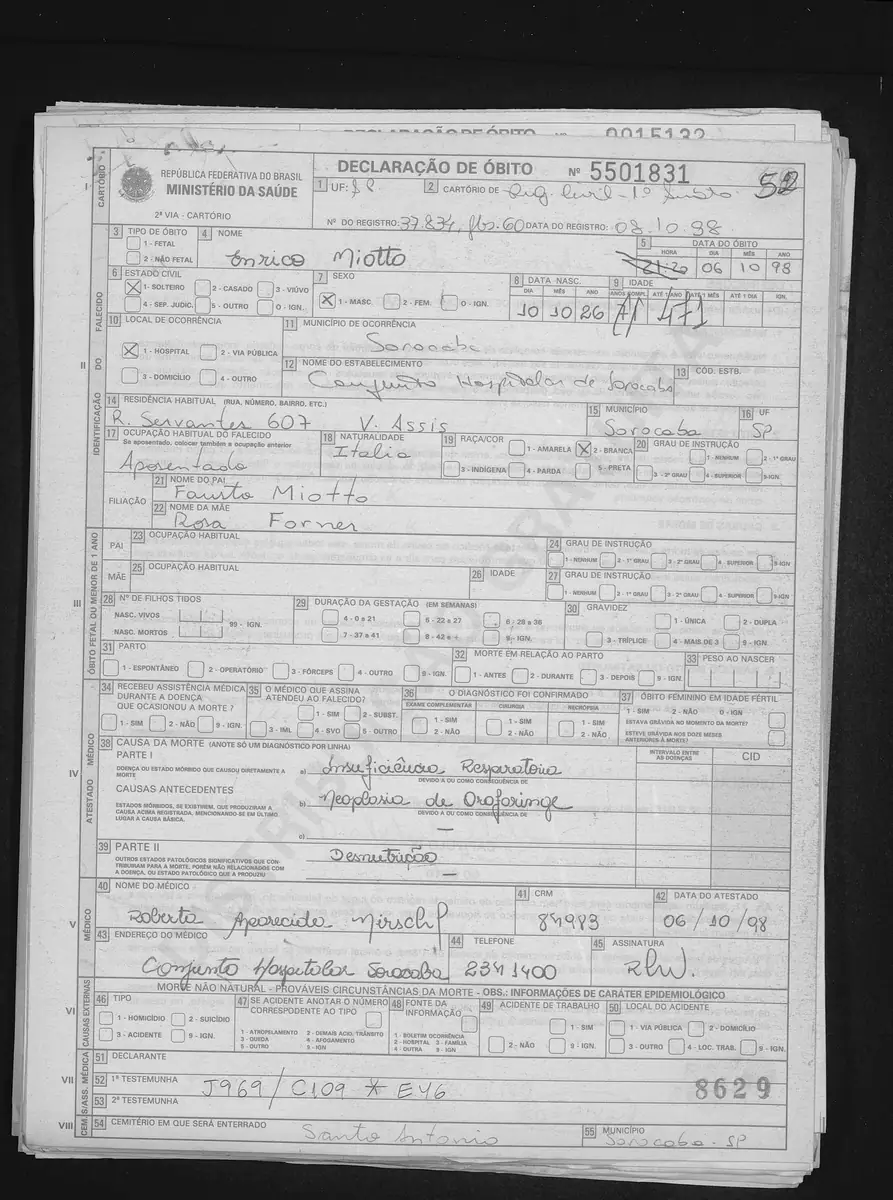
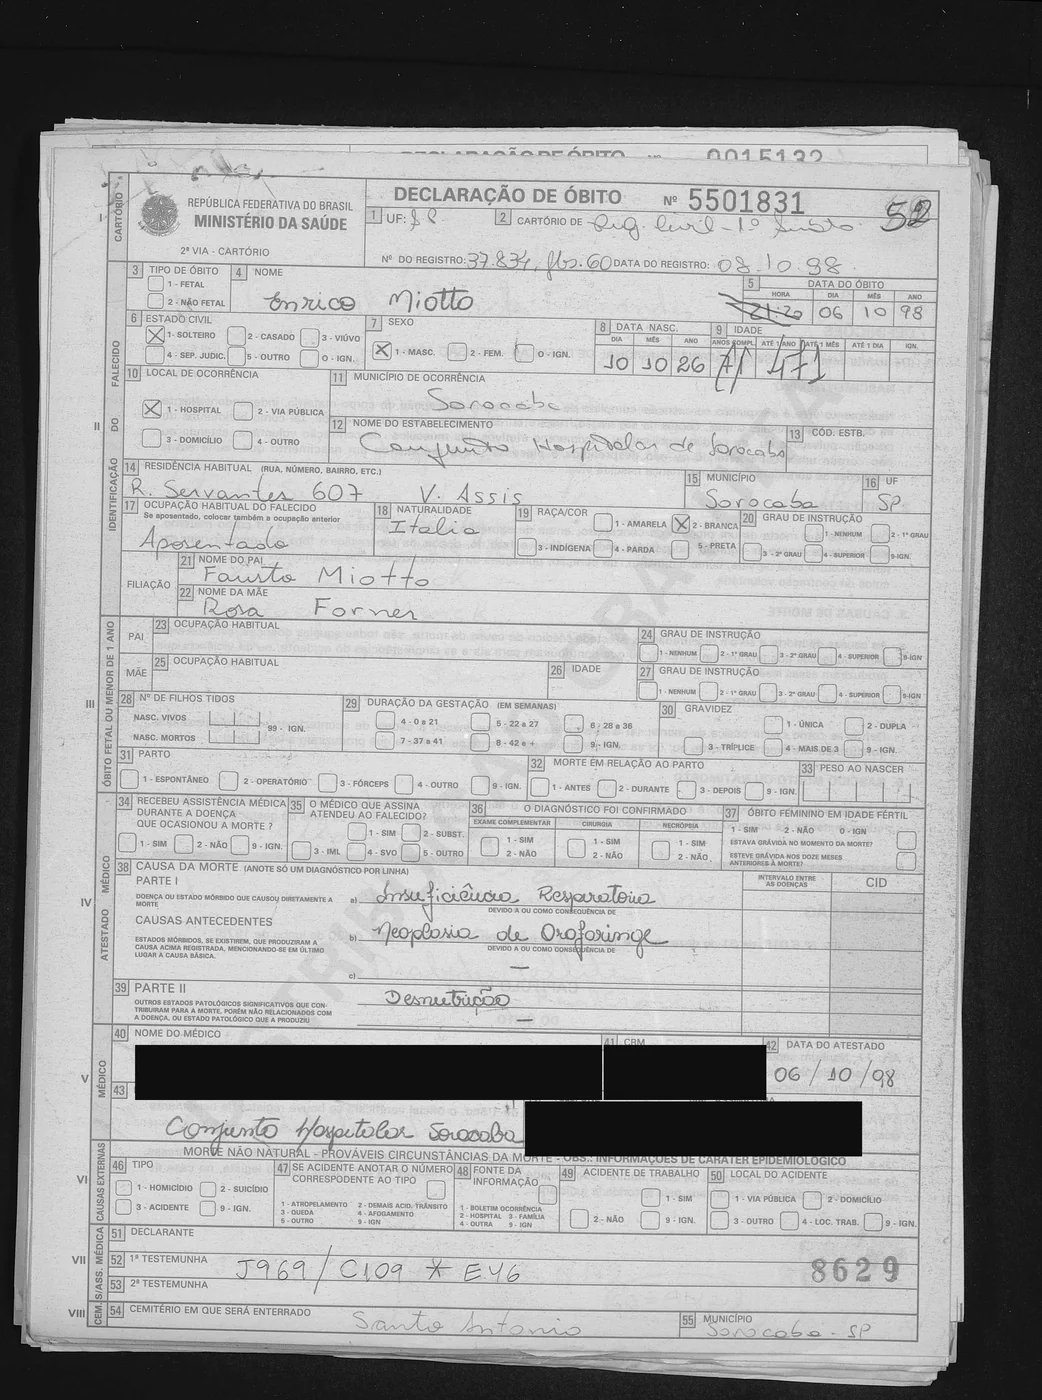
Tarja o médico na Declaração de Óbito
O autor perguntou se publicar documento de pessoa falecida pode servir
para alguém fazer algo errado. Serve, mas não pelo motivo óbvio: RG dos
anos 40 não abre nada hoje. Os riscos reais são cidadania por descendência
fabricada, perguntas de segurança dos vivos, terceiros vivos dentro dos
documentos, e fotos de vivos — inclusive de uma criança.

O único que dava para resolver sem custo nenhum ao livro foi o terceiro:
o médico que assinou o óbito de Enrico é a única pessoa daquele papel que
não é da família e não escolheu estar aqui. Nome, CRM, telefone e
assinatura tarjados; o hospital e a data continuam legíveis porque já
estão no texto.

A legenda declara a tarja. Editar documento em não-ficção sem dizer seria
pior do que não editar. Original intacto no Drive, versão tarjada em
documentos/.

O resto — números de documento, endereços, consentimento dos vivos e a
decisão sobre a foto do menor — fica anotado em docs/ para a passada
anterior ao site público de 2027 e a qualquer circulação do manuscrito.

Claude-Session: https://claude.ai/code/session_01TKTsHq9aS55tRuPuXv9cEo

Changed region(s): [[0.1209, 0.74, 0.8466, 0.8325]]

diff --git a/livro/build_livro.py b/livro/build_livro.py
@@ -5239,7 +5239,7 @@ IMG_BY_CAP = {
       ('rino','<strong>Rino Dei Agnoli</strong>, nascido em 26 de janeiro de 1923. Tinha quatro anos. Fotografia de documento, 22 de novembro de 1979.')],
  26: [('enrico','Enrico Miotto, 1926 a 1998. Tinha um ano e quinze dias na noite do naufrágio.'),
       ('enrico_registro_de_estrangeiro','Registro de Estrangeiros de Enrico Miotto, 29 de dezembro de 1949. Data de nascimento: 10.10.1926.'),
-      ('certidao_de_obito','Declaração de Óbito nº 5501831. Sorocaba, 6 de outubro de 1998. Aposentado, solteiro, natural da Itália, filho de Fausto Miotto e Rosa Forner. Sepultado no Cemitério Santo Antônio.')],
+      ('certidao_de_obito','Declaração de Óbito nº 5501831. Sorocaba, 6 de outubro de 1998. Aposentado, solteiro, natural da Itália, filho de Fausto Miotto e Rosa Forner. Sepultado no Cemitério Santo Antônio. <em>O nome, o registro profissional, o telefone e a assinatura do médico que atestou o óbito foram tarjados nesta reprodução: ele é a única pessoa deste documento que não pertence à família e não escolheu estar neste livro.</em>')],
  27: [('mafalda_miotto_forner','Mafalda Miotto Terra, nascida em 1937, dez anos depois do naufrágio, com o nome do navio.'),
       ('mafalda_e_filhos','Mafalda e os filhos: Dionísio, Edna, Mafalda, Inês, Kênia, Marta e Siri. Falta o João.'),
       ('mafalda_e_bisnetos','Mafalda e os bisnetos.')],

diff --git a/docs/02-pesquisa-documental.md b/docs/02-pesquisa-documental.md
@@ -1778,3 +1778,36 @@ legenda no livro declara isso. **Pendencia de credito, como o panfleto do cap. 5
   **filho de Miotto Asia**, irma de Fausto -> caderno.
   Nota: o sobrenome **Pandolfo** e o mesmo da bisavo Santa Pandolfo. Outro cruzamento entre
   as familias da regiao, a investigar.
+
+---
+
+## 24. Dados pessoais nas imagens — decisão de 08.09.2026
+
+O autor levantou a questão: publicar documento de pessoa falecida pode servir para alguém
+fazer algo errado?
+
+**Avaliação.** O risco baixo é o óbvio (números de RG dos anos 40 e 60 não abrem nada hoje, e
+boa parte do acervo já é público — Arquivo Nacional e Museu da Imigração). Os riscos reais são
+outros quatro:
+
+1. **Cidadania italiana por descendência.** O livro publica o dossiê pronto: comune, número de
+   ato, hora de nascimento, filiação de quatro gerações e as imagens. É material de uso direto
+   para quem fabrica vínculo genealógico.
+2. **Perguntas de segurança dos vivos.** Nome de solteira da mãe, cidade e data de nascimento
+   dos mortos servem para responder por **Mafalda, Marta e o autor**, que estão vivos.
+3. **Terceiros vivos dentro dos documentos.** O médico que assinou o óbito de Enrico.
+4. **Fotos de vivos**, inclusive **um menor** (João Luca).
+
+**Feito agora:** tarjados o **nome, o CRM, o telefone e a assinatura do médico** na Declaração
+de Óbito. É a única pessoa daquele papel que não é da família. A legenda **declara a tarja** —
+editar documento em não-ficção sem dizer seria pior do que não editar. Original intacto no
+Drive; versão tarjada em `documentos/certidao-de-obito-tarjada.jpg`.
+
+**Decidido NÃO fazer agora:** tarjar números de documento e recortar endereços. O artefato é
+privado e o autor precisa dos documentos legíveis enquanto trabalha.
+
+🔴 **Fazer antes de duas coisas:** o **site do centenário (25.10.2027)**, que será público e
+indexado, e **qualquer circulação do manuscrito fora da família**. Nessa passada: tarjar RG e
+números de documento, mostrar a Declaração de Óbito só no bloco da filiação e da causa,
+resolução de leitura e não de arquivo, e consentimento de **Giorgio, Marta e Mafalda** — e uma
+decisão explícita do pai sobre a foto e o nome de **João Luca**, que é criança.
